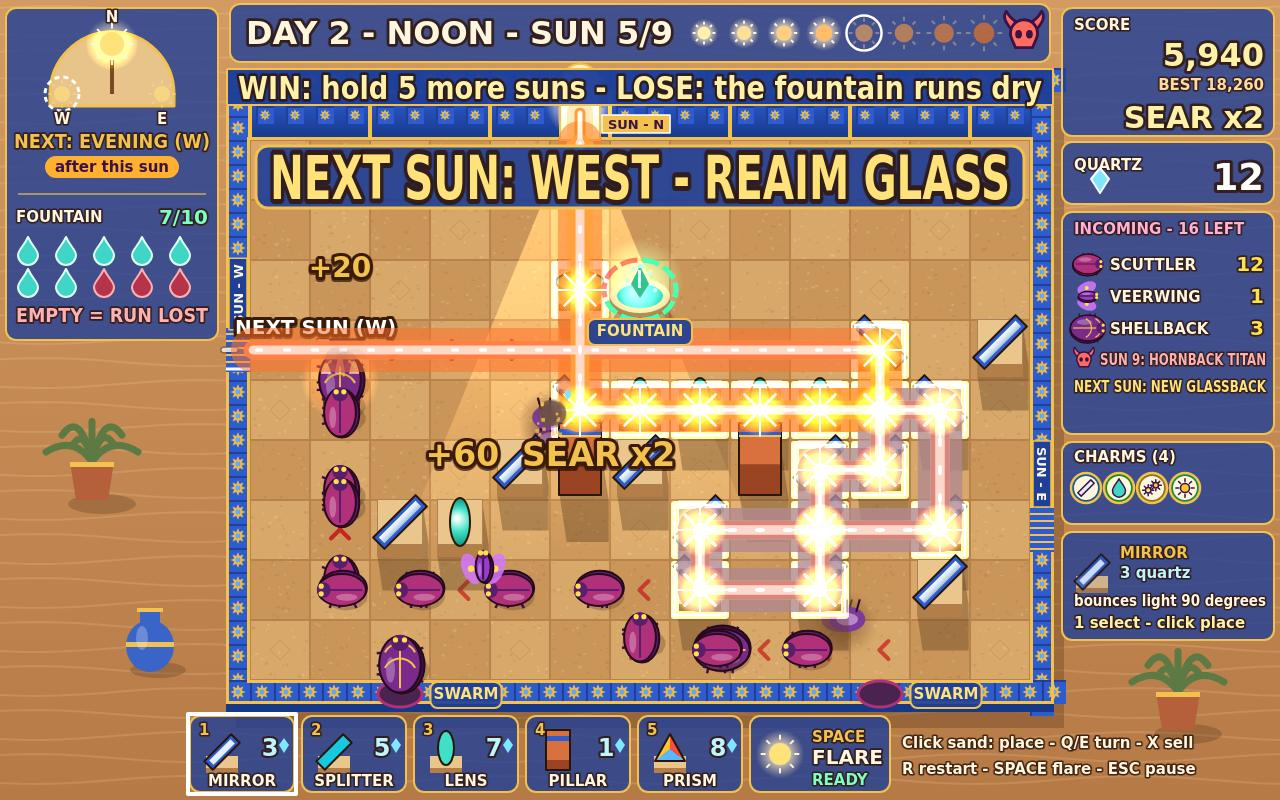
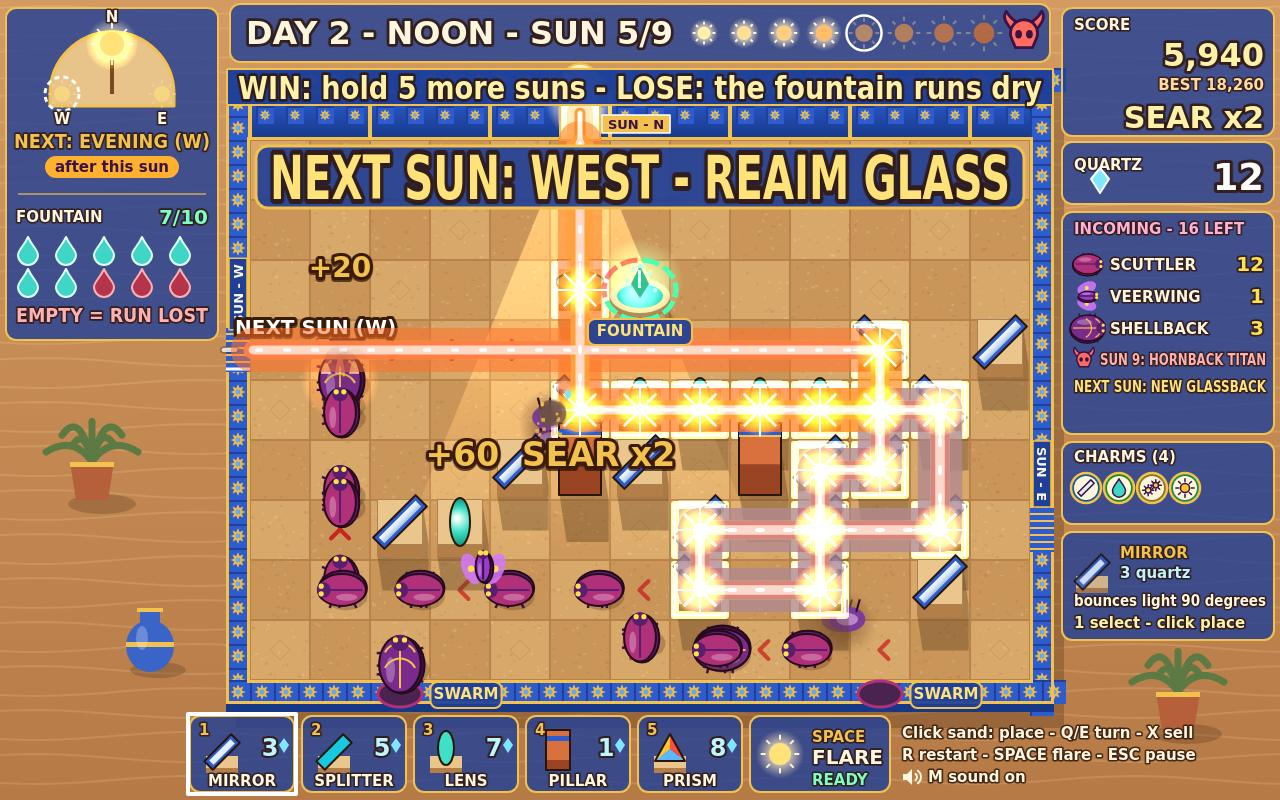
Sound: M MUTE keycap on the title, speaker + M sound on/off line in the HUD keys; playtest checks M mutes the real gain and saves it

Changed region(s): [[0.6875, 0.9062, 0.9375, 1.0]]

diff --git a/game/src/render/hud.js b/game/src/render/hud.js
@@ -502,10 +502,45 @@ function drawPieceIcon(ctx, type, x, y) {
 }
 
 /** The controls, in one key line over two rows beside the hotbar (R needs a second press). */
+/** A small speaker: box and cone, then two sound waves (or an X when muted). Centred on y. */
+function drawSpeaker(ctx, x, y, muted, color) {
+  ctx.save();
+  ctx.fillStyle = color;
+  ctx.strokeStyle = color;
+  ctx.lineWidth = 2;
+  ctx.lineCap = 'round';
+  ctx.beginPath();
+  ctx.moveTo(x, y - 3);
+  ctx.lineTo(x + 4, y - 3);
+  ctx.lineTo(x + 9, y - 8);
+  ctx.lineTo(x + 9, y + 8);
+  ctx.lineTo(x + 4, y + 3);
+  ctx.lineTo(x, y + 3);
+  ctx.closePath();
+  ctx.fill();
+  ctx.beginPath();
+  if (muted) {
+    ctx.moveTo(x + 12, y - 4);
+    ctx.lineTo(x + 19, y + 4);
+    ctx.moveTo(x + 19, y - 4);
+    ctx.lineTo(x + 12, y + 4);
+  } else {
+    for (const r of [4, 8]) {
+      ctx.moveTo(x + 10 + r * Math.cos(-0.9), y + r * Math.sin(-0.9));
+      ctx.arc(x + 10, y, r, -0.9, 0.9);
+    }
+  }
+  ctx.stroke();
+  ctx.restore();
+}
+
+/** Three short key lines beside the hotbar during a sun; the last one says whether sound is on. */
 function drawKeyLine(ctx, x, ui) {
-  text(ctx, 'Click sand: place - Q/E turn - X sell', x, HOTBAR.y + 32, 15, INK, 'left', 800);
-  if (ui.restartArmed) text(ctx, 'PRESS R AGAIN TO RESTART', x, HOTBAR.y + 58, 15, '#FF8A8A', 'left', 900);
-  else text(ctx, `R restart - SPACE flare - ESC pause${ui.fast ? ' - x2' : ''}`, x, HOTBAR.y + 58, 15, INK, 'left', 800);
+  text(ctx, 'Click sand: place - Q/E turn - X sell', x, HOTBAR.y + 22, 15, INK, 'left', 800);
+  if (ui.restartArmed) text(ctx, 'PRESS R AGAIN TO RESTART', x, HOTBAR.y + 44, 15, '#FF8A8A', 'left', 900);
+  else text(ctx, `R restart - SPACE flare - ESC pause${ui.fast ? ' - x2' : ''}`, x, HOTBAR.y + 44, 15, INK, 'left', 800);
+  drawSpeaker(ctx, x + 1, HOTBAR.y + 61, ui.muted, ui.muted ? '#FF8A8A' : INK);
+  text(ctx, ui.muted ? 'M sound off' : 'M sound on', x + 26, HOTBAR.y + 66, 15, ui.muted ? '#FF8A8A' : INK, 'left', 800);
 }
 
 function drawHotbar(ctx, run, ui) {

diff --git a/game/style.css b/game/style.css
@@ -29,9 +29,9 @@ button.big:hover { background: #cf3f93; }
 .diff b { font-size: 34px; }
 .diff small { font-weight: 800; font-size: 30px; }
 .diff.on { background: #f2c14e; color: #3b1247; border-color: #fff6df; }
-.keycaps { position: absolute; left: 24px; right: 24px; bottom: 12px; display: flex; justify-content: center; gap: 22px; padding: 4px 0; font: 900 26px system-ui, sans-serif; color: #fff6df; background: rgba(31, 63, 153, 0.8); border: 4px solid #f2c14e; border-radius: 16px; }
+.keycaps { position: absolute; left: 24px; right: 24px; bottom: 12px; display: flex; justify-content: center; gap: 8px; padding: 4px 0; font: 900 26px system-ui, sans-serif; color: #fff6df; background: rgba(31, 63, 153, 0.8); border: 4px solid #f2c14e; border-radius: 16px; }
 .keycaps span { display: flex; align-items: center; gap: 6px; white-space: nowrap; }
-kbd { display: inline-block; min-width: 34px; padding: 0 6px; font: 900 24px system-ui, sans-serif; text-align: center; color: #3b1247; background: #fff6df; border: 2px solid #f2c14e; border-bottom-width: 5px; border-radius: 8px; }
+kbd { display: inline-block; min-width: 30px; padding: 0 5px; font: 900 24px system-ui, sans-serif; text-align: center; color: #3b1247; background: #fff6df; border: 2px solid #f2c14e; border-bottom-width: 5px; border-radius: 8px; }
 .row { display: flex; gap: 12px; }
 .row button { font-size: 30px; padding: 2px 18px; }
 .options label { display: grid; grid-template-columns: 220px 200px; justify-items: start; align-items: center; gap: 16px; font-weight: 800; font-size: 20px; }

diff --git a/game/src/testhook.js b/game/src/testhook.js
@@ -7,6 +7,7 @@ import { enemiesRemaining } from './sim.js';
 import { rankFor } from './combat.js';
 import { currentBanner, winLoseHeadline } from './announce.js';
 import { loadHistory } from './save.js';
+import { audioProbe } from './audio.js';
 import { boardTextBoxes, boxTouchesBeam } from './render/fx.js';
 import { boardLabelBoxes } from './render/board.js';
 
@@ -132,6 +133,9 @@ export function installTestHook(app, api) {
     },
     resultsText() {
       return resultsText();
+    },
+    audio() {
+      return audioProbe();
     },
     floaterCount() {
       return app.fx.texts.length;

diff --git a/game/index.html b/game/index.html
@@ -40,7 +40,7 @@
     </div>
     <div id="keycaps" class="keycaps">
       <span><kbd>1-5</kbd>GLASS</span><span><kbd>Q/E</kbd>TURN</span><span><kbd>SPACE</kbd>FLARE</span>
-      <span><kbd>X</kbd>SELL</span><span><kbd>R</kbd>RESTART</span><span><kbd>ESC</kbd>PAUSE</span>
+      <span><kbd>X</kbd>SELL</span><span><kbd>R</kbd>RESTART</span><span><kbd>ESC</kbd>PAUSE</span><span><kbd>M</kbd>MUTE</span>
     </div>
   </section>
 

diff --git a/game/src/main.js b/game/src/main.js
@@ -326,6 +326,7 @@ function render() {
   if (app.screen === 'play') {
     const run = app.run;
     app.ui.fast = app.fast;
+    app.ui.muted = app.settings.muted;
     app.ui.restartArmed = performance.now() < app.restartArmedUntil;
     const resultsHero = app.overlay === 'results';
     const showHud = run.phase !== 'draft' && !resultsHero;

diff --git a/game/src/audio.js b/game/src/audio.js
@@ -232,3 +232,8 @@ export function updateMusic(intensity, fighting) {
     music.step++;
   }
 }
+
+/** For the playtest: whether the mix is muted and the master gain right now (null before audio starts). */
+export function audioProbe() {
+  return { muted: levels.muted, gain: master ? master.gain.value : null };
+}

diff --git a/NOTES.md b/NOTES.md
@@ -172,6 +172,10 @@
   keycaps as one band along the bottom (26 px, no squeeze). Playtest asserts ENTER -> SCORCHED run
   and ArrowUp -> Normal.
 
+- Benchmark 5 item 4: title key band has M MUTE; during a sun the HUD key line gets a third line with a
+  drawn speaker and `M sound on` (red X + `M sound off` when muted). M toggles the real master gain and
+  saves settings.muted; the playtest reads the gain (audio.audioProbe) and the save both ways.
+
 ## Next
 - Staging (benchmark 2 item 1, benchmark 1 item 6): cover wants >= 18 beetles, >= 4 burning, >= 3
   floaters, a Scuttler at the rim and a fresh -1 FOUNTAIN; draft and win at 6/10 (now 8/10).
